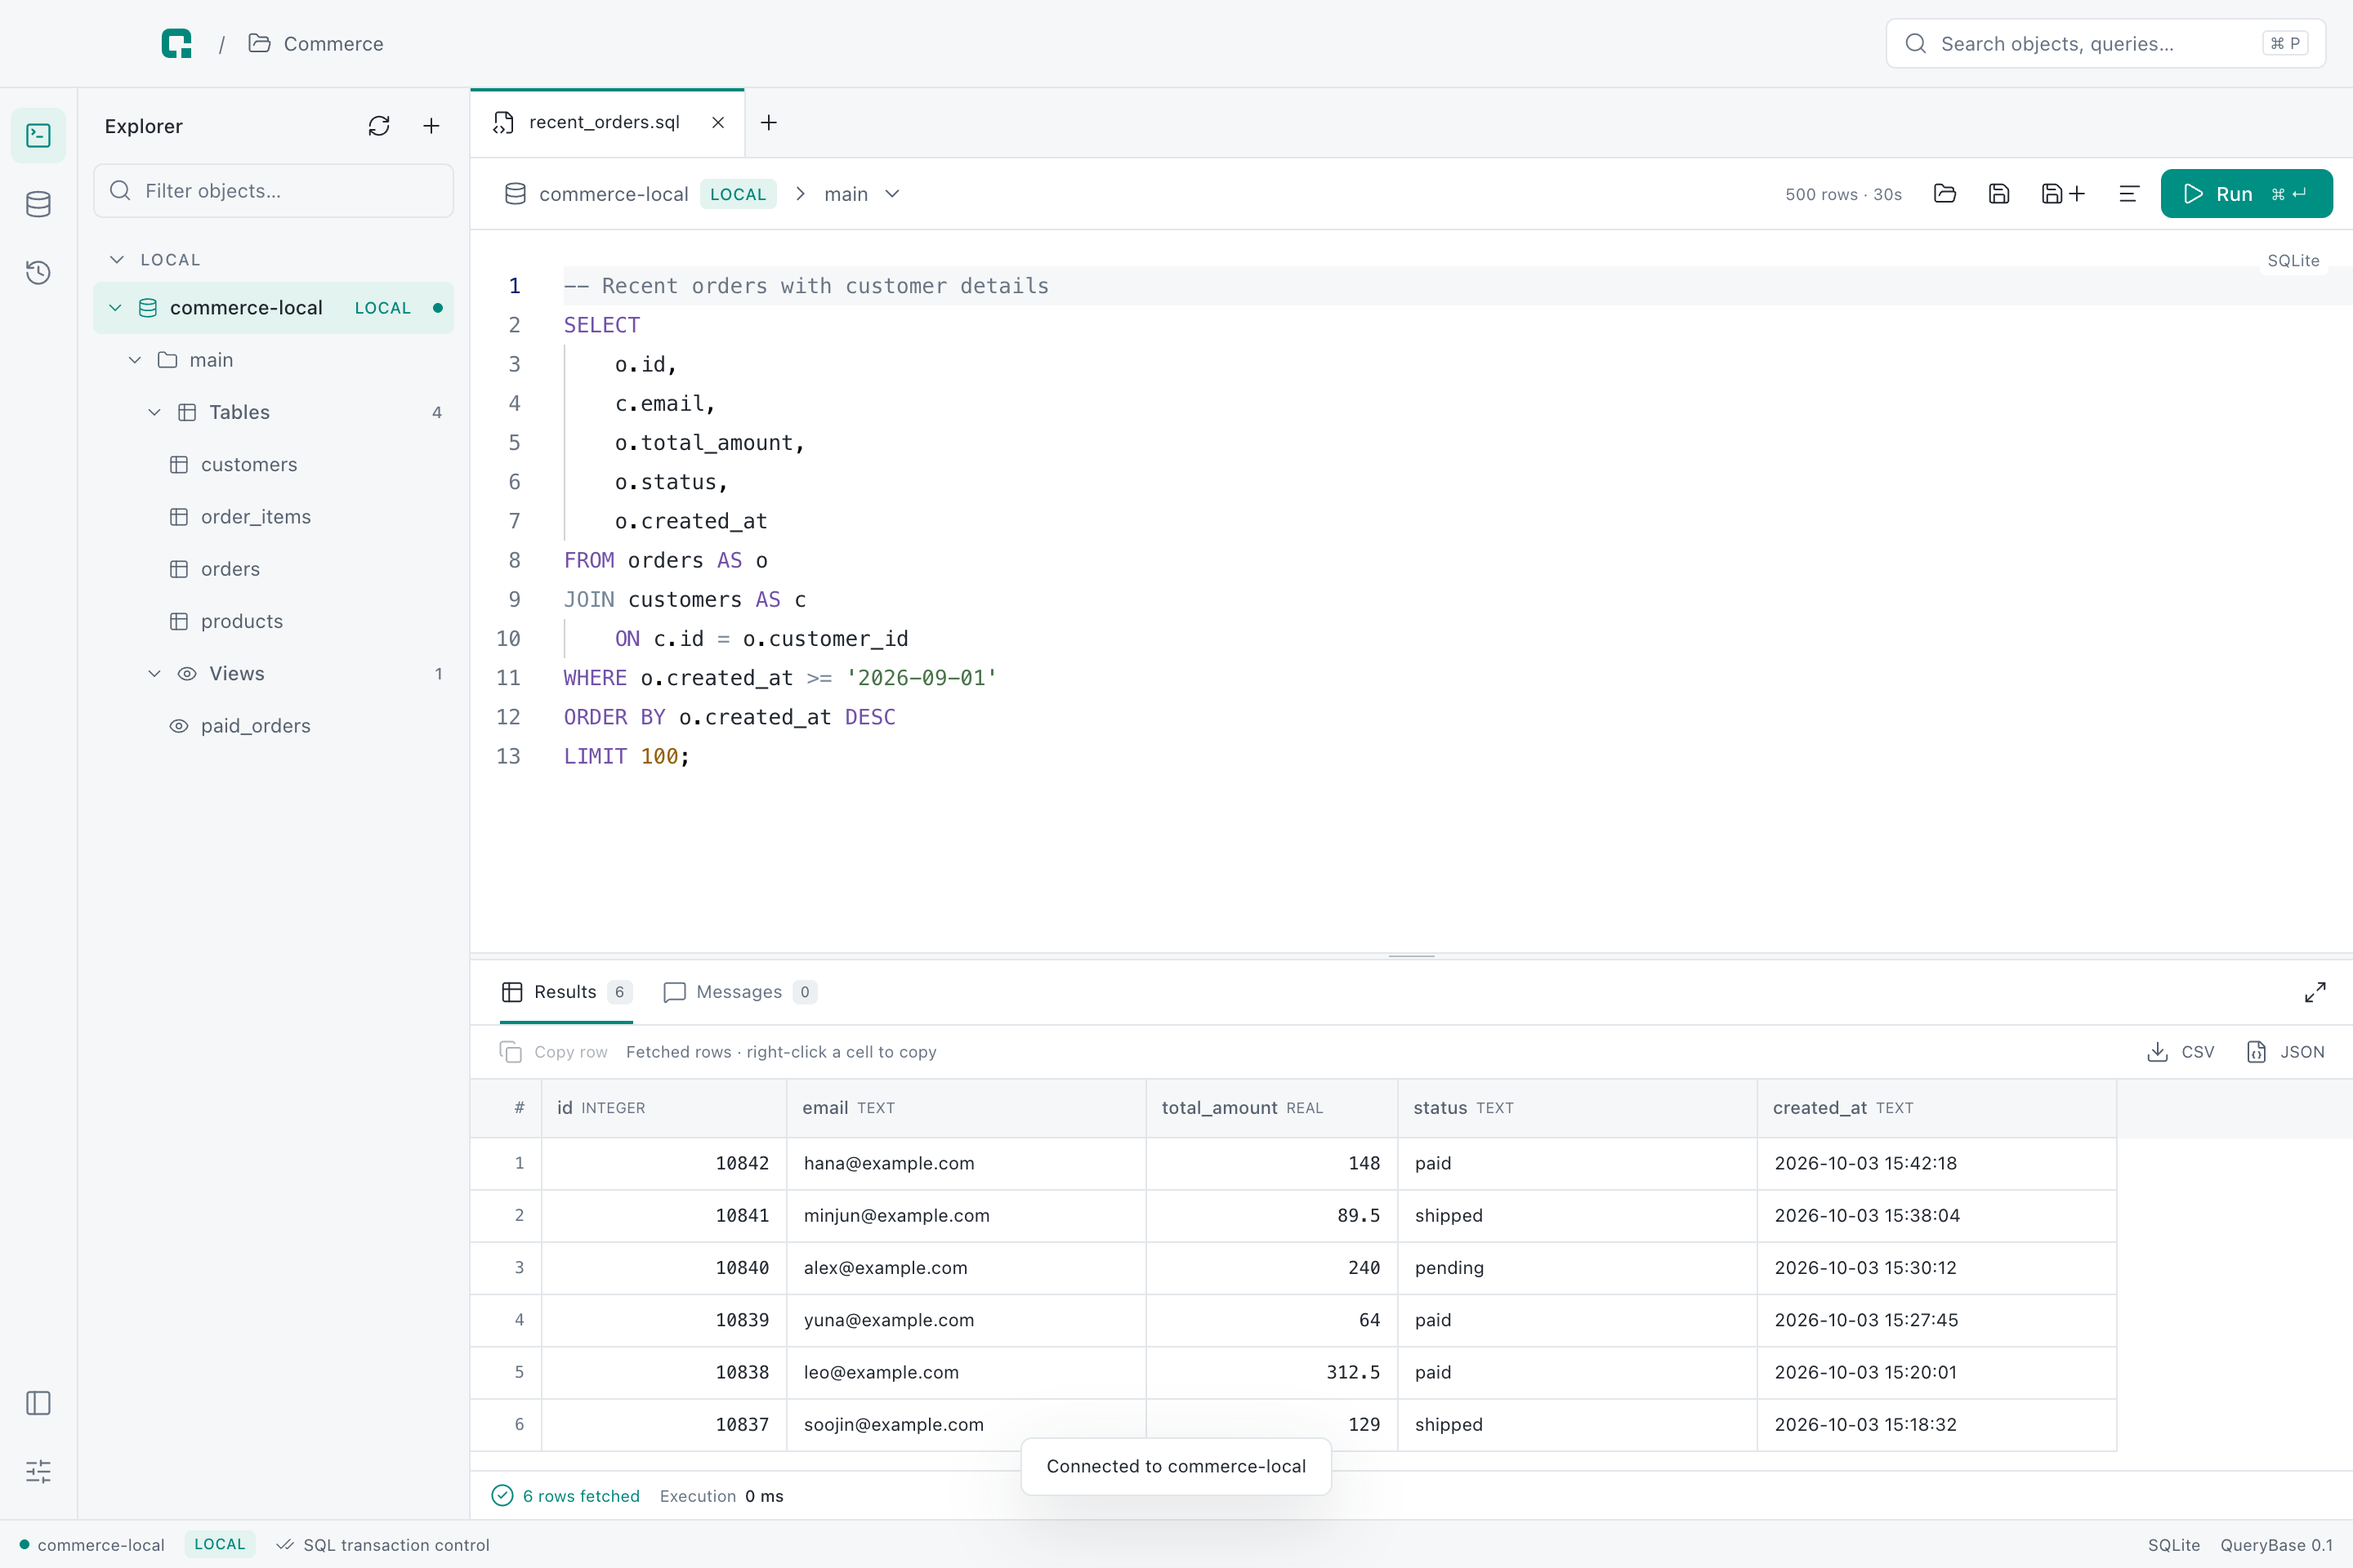
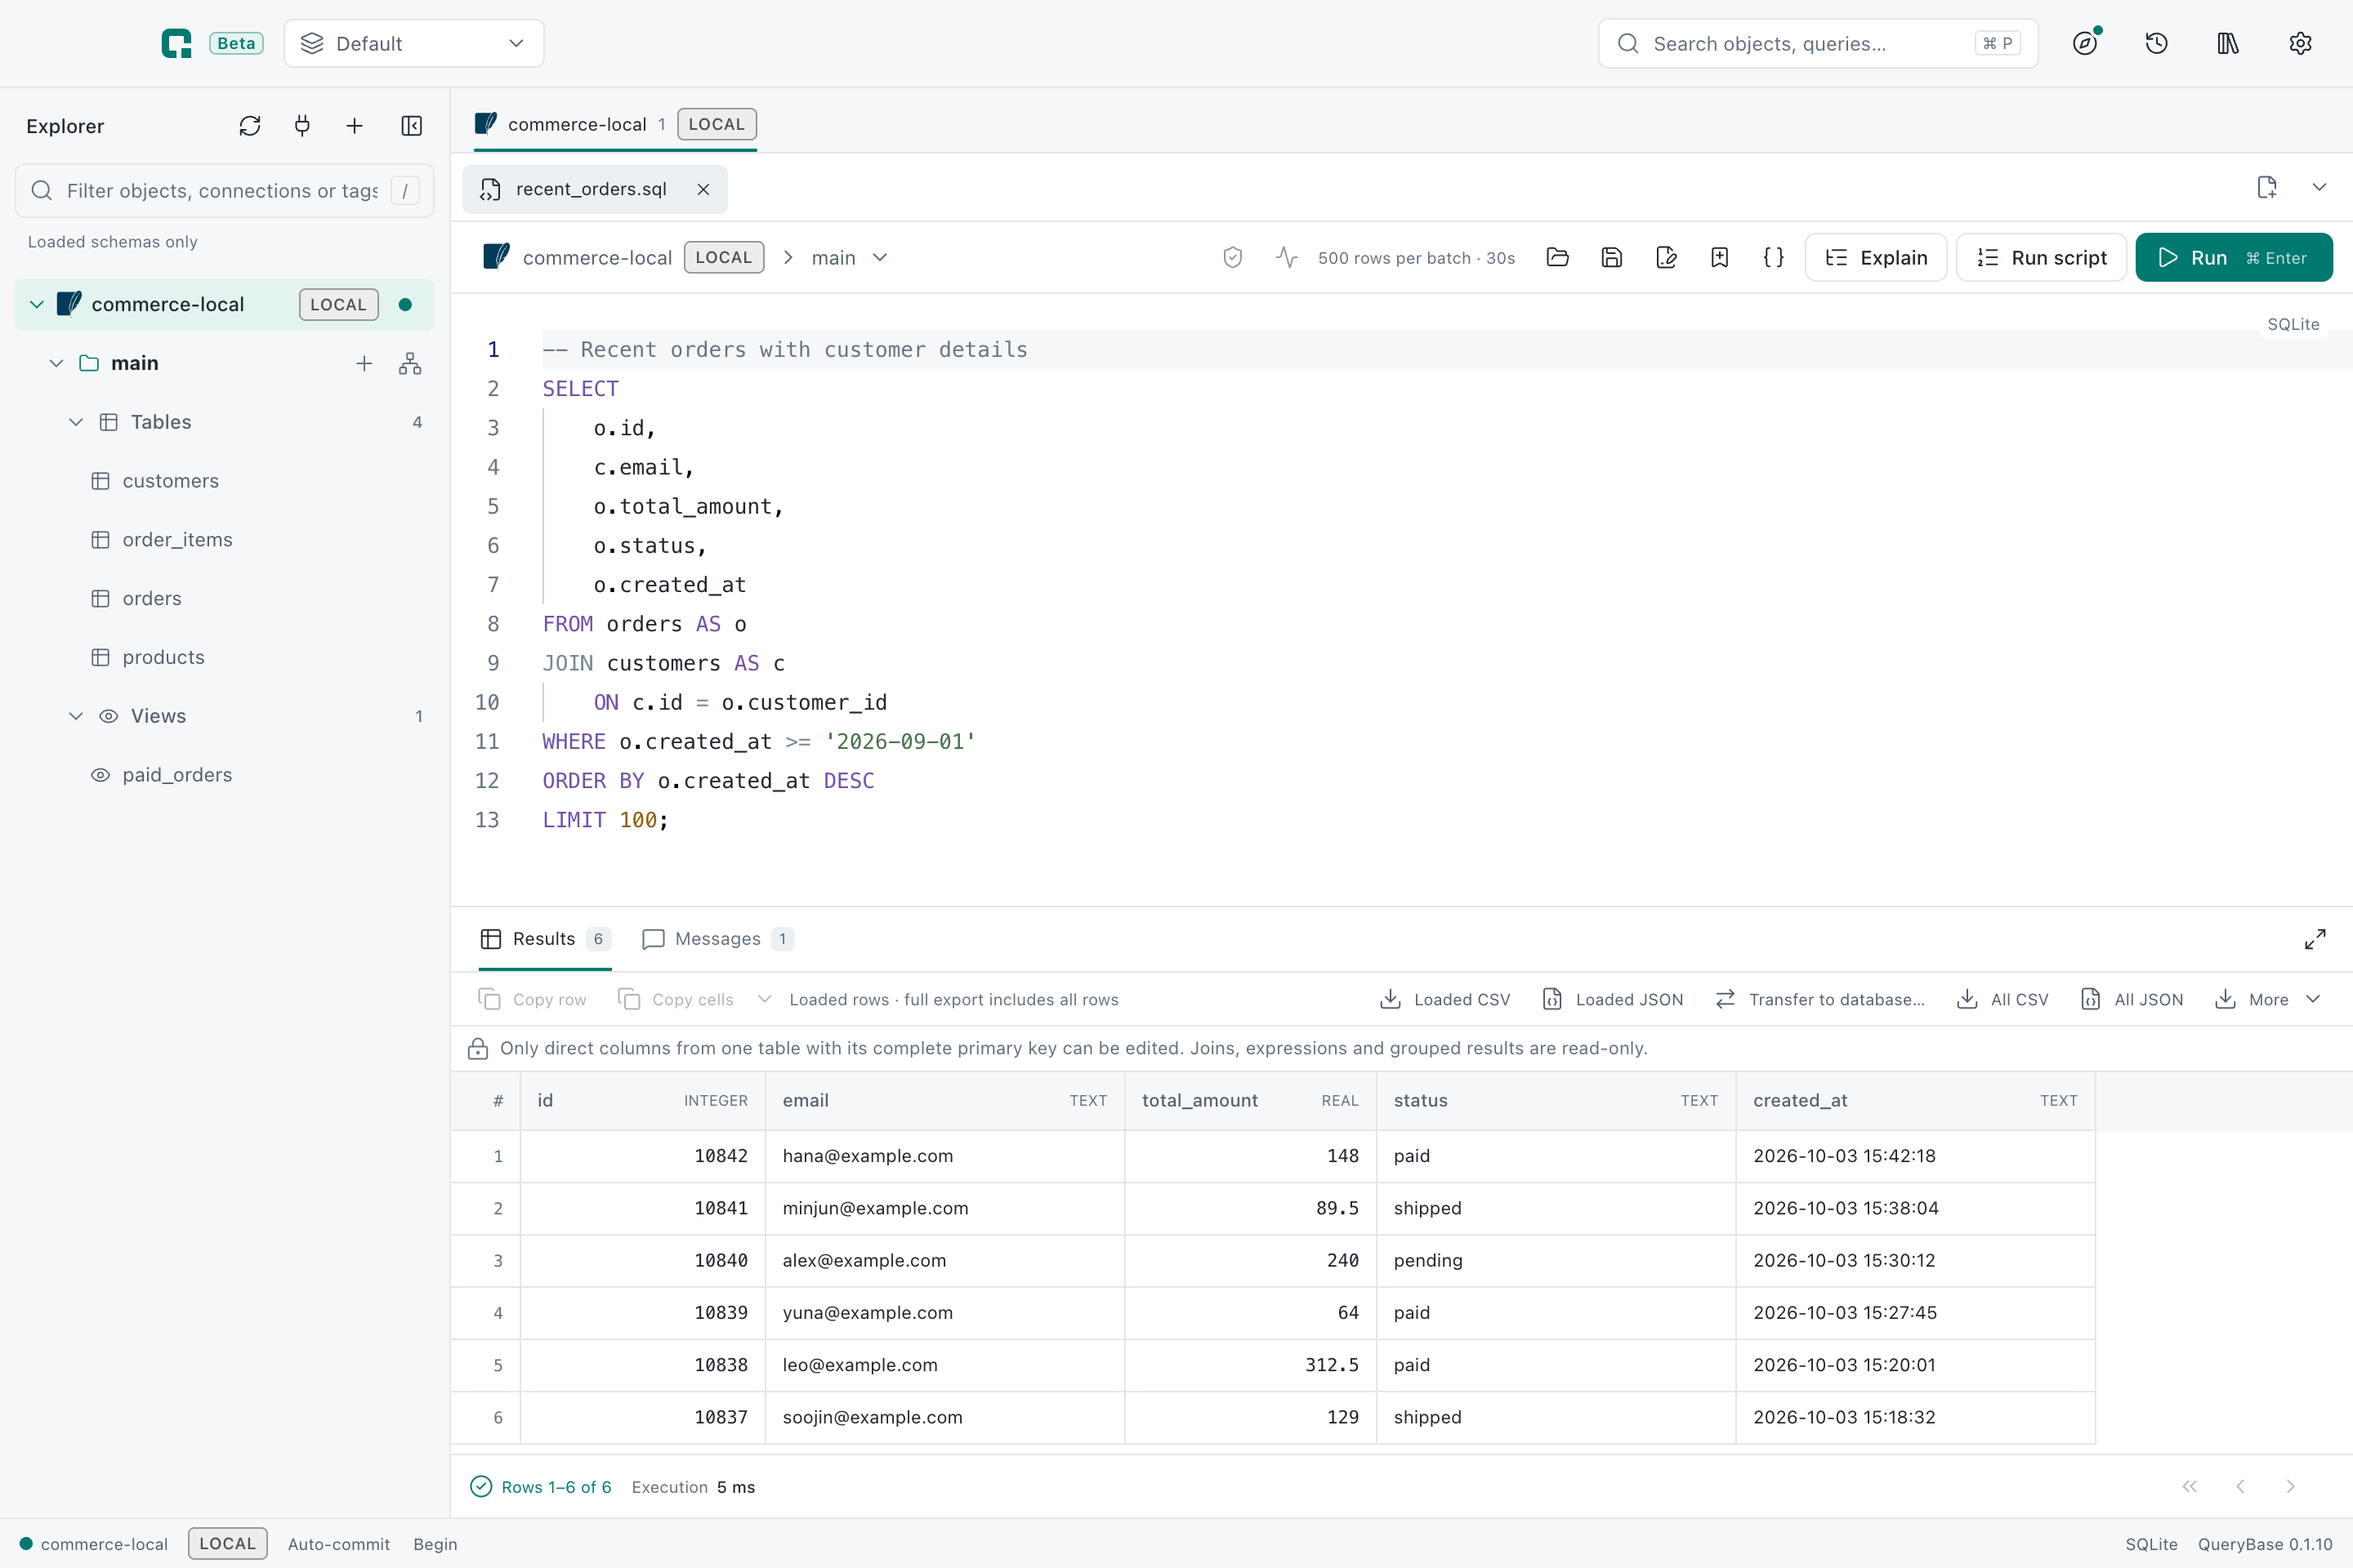
QueryBase 히어로 화면을 현재 빌드(0.1.10)로 다시 찍음
랜딩이 "실제 앱 화면"이라고 적어 둔 캡처가 구버전 UI 였다. 창 틀 자체가 바뀌었다 —
왼쪽 세로 아이콘 레일 5개가 지금은 없고 상단 오른쪽 아이콘 버튼으로 옮겨 갔으며,
Beta 배지와 워크스페이스 전환기가 새로 생겼고, 결과 툴바도 CSV/JSON 둘에서
Loaded CSV · Loaded JSON · Transfer to database… · All CSV · All JSON · More 로 늘었다.
상태바도 QueryBase 0.1 → 0.1.10 이다.

앱 저장소의 Playwright 캡처 파이프라인을 그대로 써서 다시 찍었다.
기존 캡처와 같은 구도·같은 소재다 — commerce-local SQLite 에 customers ·
order_items · orders · products 와 paid_orders 뷰를 심고, 같은 recent_orders.sql 을
실행해 같은 6행을 띄웠다. 2880×1920, 라이트, 영문으로 전과 같다.

alt 와 figcaption 은 새 화면에도 그대로 맞아 두었고, 캐시 때문에 ?v=20261117 을 붙였다.
캡처용 임시 스펙은 지웠고 QueryBase 저장소는 손대기 전 상태 그대로다.

diff --git a/querybase/index.html b/querybase/index.html
@@ -87,8 +87,8 @@
           <p class="hero-status"><span aria-hidden="true"></span> Desktop app · 개인·업무 모두 무료</p>
         </div>
         <figure class="workspace-preview" id="workspace">
-          <div class="preview-frame"><img src="../assets/querybase/workspace-preview.png" alt="QueryBase 실제 개발 화면. 왼쪽의 SQLite 샘플 데이터베이스 탐색기, 중앙의 주문 조회 SQL, 아래의 6행 조회 결과를 함께 보여줍니다." width="2880" height="1920" fetchpriority="high" decoding="async"></div>
-          <figcaption><span>실제 앱 화면 · SQLite 샘플 데이터</span><a href="../assets/querybase/workspace-preview.png" target="_blank" rel="noopener">화면 크게 보기 <span aria-hidden="true">↗</span><span class="sr-only">, 새 창</span></a></figcaption>
+          <div class="preview-frame"><img src="../assets/querybase/workspace-preview.png?v=20261117" alt="QueryBase 실제 개발 화면. 왼쪽의 SQLite 샘플 데이터베이스 탐색기, 중앙의 주문 조회 SQL, 아래의 6행 조회 결과를 함께 보여줍니다." width="2880" height="1920" fetchpriority="high" decoding="async"></div>
+          <figcaption><span>실제 앱 화면 · SQLite 샘플 데이터</span><a href="../assets/querybase/workspace-preview.png?v=20261117" target="_blank" rel="noopener">화면 크게 보기 <span aria-hidden="true">↗</span><span class="sr-only">, 새 창</span></a></figcaption>
         </figure>
         <div class="database-strip" aria-label="현재 연결과 SQL 실행을 구현한 데이터베이스">
           <p>서로 다른 데이터베이스.<br> 익숙한 하나의 작업 공간.</p>
